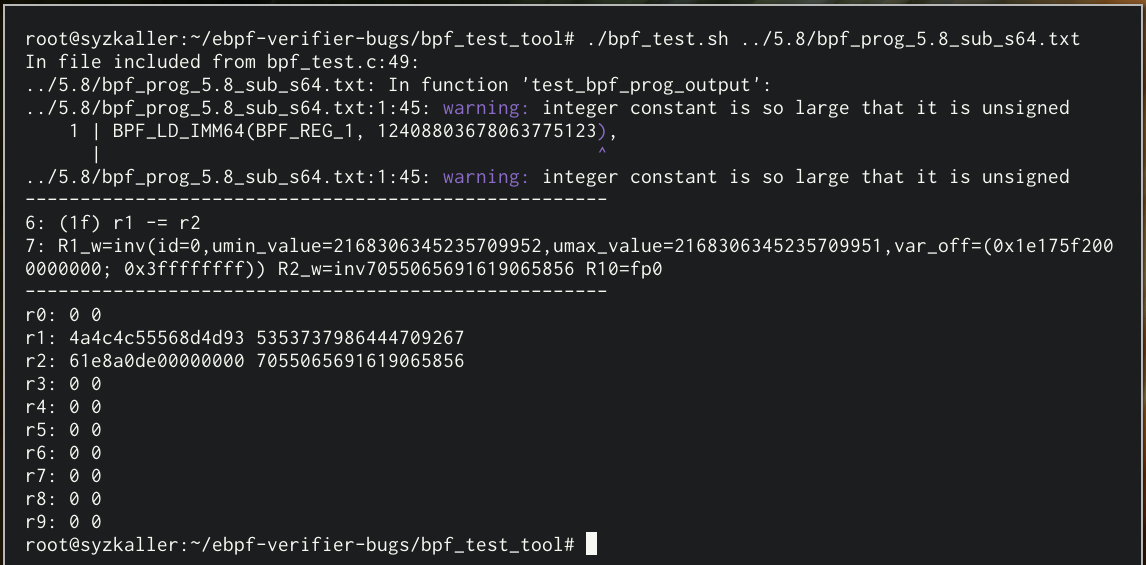
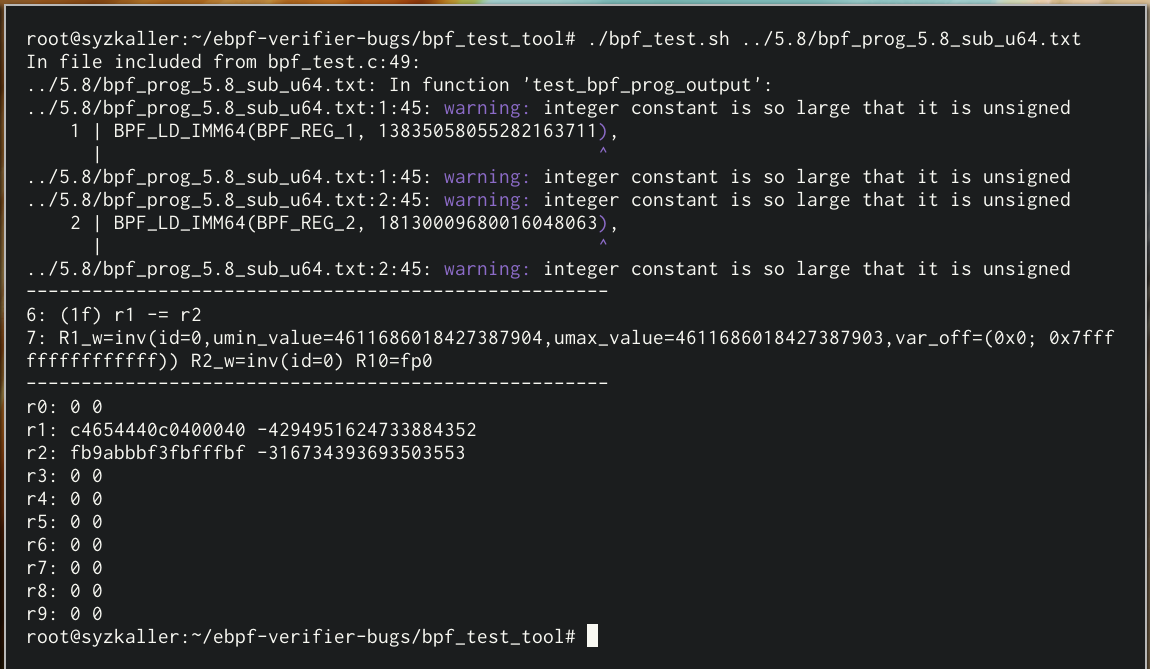
Change verbose explanation of s64 to a simpler explanation of u64 in Example 1

diff --git a/README.md b/README.md
@@ -29,19 +29,19 @@ cd bpf_test_tool
 
 ### Example 1: An ALU instruction
 
-Let's try to load the POC eBPF program `bpf_prog_5.8_sub_s64.txt`, which manifests a bug in the `BPF_SUB` instruction and in the `signed 64` abstract domain. The script `bpf_test.sh` is useful.
+Let's try to load the POC eBPF program `bpf_prog_5.8_sub_u64.txt`, which manifests a bug in the `SUB` instruction and in the `unsigned 64` abstract domain. The script `bpf_test.sh` is useful.
 
 ```
-./bpf_test.sh ../5.8/bpf_prog_5.8_sub_s64.txt
+./bpf_test.sh ../5.8/bpf_prog_5.8_sub_u64.txt
 ```
 
 This should produce the following output. 
 
 ![Alt text](images/image2.png)
 
-**Reading the output.** The script only prints out lines `6` and `7` from the verifier log, omitting the other lines. (These "relevant" line numbers were inserted as comments into `bpf_prog_5.8_sub_s64.txt` by Agni.) Line `6` corresponds to the instruction involving the `BPF_SUB`: `r1 -= r2`. Line `7` consists of the verifier's beliefs in the values of the registers immediately after executing the instruction (more precisely, the abstract domain values used to track the values in the registers). Finallly, after the second set of dashed lines, the _actual_ values in 10 eBPF registers (`r0` through `r9`) are printed. 
+**Reading the output.** The script only prints out lines `6` and `7` from the verifier log, omitting the other lines. (These "relevant" line numbers were inserted as comments into `bpf_prog_5.8_sub_u64.txt` by Agni.) Line `6` corresponds to the instruction involving the `SUB`: `r1 -= r2`. Line `7` consists of the verifier's beliefs in the values of the registers immediately after executing the instruction (more precisely, the abstract domain values used to track the values in the registers). Finally, after the second set of dashed lines, the _actual_ values in 10 eBPF registers (`r0` through `r9`) are printed. 
 
-**The bug.** Note that the filename `bpf_prog_5.8_sub_s64.txt` mentiones the abstract domain that this program violates soundness in: `s64`, so we have to look for `smin_value`, `smax_value` in the verifier log. However in this particular example, they are not printed. This is because the `print_verifier_log` function in `verifier.c` skips printing `smin_value` and `smax_value` if they are equal to `umin_value` and `umax_value` respectively. Knowing this, the error in the analysis of `SUB` in `signed 64` domain is clear: `smin_value` is greater than `smax_value`. This should never be the case in a sound analysis.
+**The bug.** Note that the filename `bpf_prog_5.8_sub_u64.txt` mentiones the abstract domain that this program violates soundness in: `u64`, so we have to look for `umin_value`, `umax_value` in the verifier log. The error in the analysis of `SUB` in the `unsigned 64` domain is clear: `umin_value` is greater than `umax_value`. This should never be the case in a sound analysis.
 
 ### Example 2: A JUMP instruction
 
